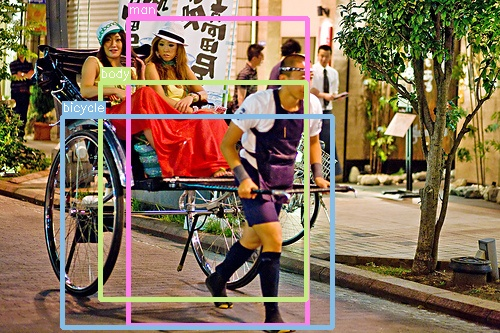
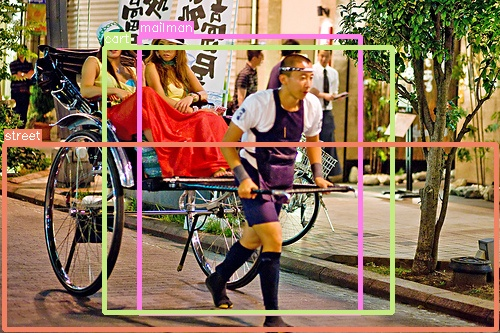
missing combined encoding added to transformer

Changed region(s): [[0.0, 0.0, 1.0, 1.0]]

diff --git a/inference.py b/inference.py
@@ -20,6 +20,7 @@ import skimage
 import skimage.transform
 import nltk
 import re
+from enum import Enum
 from util import box_ops
 from PIL import Image
 from torch.utils.data import DataLoader
@@ -31,6 +32,10 @@ from nltk.corpus import wordnet as wn
 class Namespace:
     def __init__(self, **kwargs):
         self.__dict__.update(kwargs)
+
+class ModelType(Enum):
+    MGSRTR:str = 'mgsrtr'
+    DuelEncGSR:str = 'duel_enc_gsr'
 
 def noun2synset(noun):
     return wn.synset_from_pos_and_offset(noun[0], int(noun[1:])).name() if re.match(r'n[0-9]*',
@@ -238,6 +243,11 @@ def main(args):
 
 
 if __name__ == '__main__':
+
+    dataset = 'flicker30k'
+    flicker_path = './flicker30k'
+    swig_path = './SWiG'
+
     args = Namespace(
         lr=0.0001,
         lr_backbone=1e-5,
@@ -247,7 +257,7 @@ if __name__ == '__main__':
         batch_size=16,
         backbone='resnet50',
         position_embedding='learned',
-        max_sentence_len=30,
+        max_sentence_len=100,
         enc_layers=6,
         dec_layers=6,
         dim_feedforward=2048,
@@ -259,8 +269,10 @@ if __name__ == '__main__':
         bbox_loss_coef=5,
         bbox_conf_loss_coef=5,
         giou_loss_coef=5,
-        dataset_file='swig',
-        swig_path='SWiG',
+        # dataset_file='swig',
+        dataset_file=dataset,
+        swig_path=swig_path,
+        flicker_path=flicker_path,
         dev=False,
         test=True,
         inference=True,
@@ -270,11 +282,12 @@ if __name__ == '__main__':
         epochs=40,
         start_epoch=0,  # epochs should start from 0 and continue until less then epochs
         num_workers=4,
-        saved_model='pretrained/checkpoint.pth',
+        saved_model='flicker30k/pretrained/v2/checkpoint.pth',
         world_size=1,
         dist_url='env://',
-        image_path='./inference/standing.jpg',
-        caption='Two young guys are standing on a yard.'
+        model_type=ModelType.MGSRTR,
+        image_path='./inference/talking-skating.jpg',
+        caption='A girl is skating on the street while talking with a mobile on her ear.'
     )
 
     nltk.download('wordnet')

diff --git a/models/dual_encoder_gsr/transformer.py b/models/dual_encoder_gsr/transformer.py
@@ -71,9 +71,9 @@ class Transformer(nn.Module):
         mem_mask = torch.cat([zero_mask, mask], dim=1)
 
         text_memory = self.text_encoder(input_ids=text_src, attention_mask=text_mask)
-        # text_memory = self.text_input_proj(text_memory)
-        # text_memory = torch.transpose(text_memory, 0, 1)
-        # text_mask = text_mask.bool()
+        text_memory = self.text_input_proj(text_memory)
+        text_memory = torch.transpose(text_memory, 0, 1)
+        text_mask = text_mask.bool()
 
         combined_mask = torch.cat((text_mask, mask), dim=1)
 
@@ -83,7 +83,7 @@ class Transformer(nn.Module):
         vhs = vhs.view(bs, -1)
         verb_pred = self.verb_classifier(vhs).view(bs, self.num_verb_classes)
 
-        # memory_combined = torch.cat((text_memory, memory), dim=0)
+        memory_combined = torch.cat((text_memory, memory), dim=0)
 
         # Transformer Decoder
         ## At training time, we assume that the ground-truth verb is given.
@@ -110,8 +110,8 @@ class Transformer(nn.Module):
                                    axis=-1)
         vr_query_embed = vr_query_embed.unsqueeze(1).repeat(1, bs, 1)
         role_tgt = torch.zeros_like(vr_query_embed)
-        rhs = self.decoder(role_tgt, memory, memory_key_padding_mask=mask,
-                           pos=pos_embed, query_pos=vr_query_embed)
+        rhs = self.decoder(role_tgt, memory_combined, memory_key_padding_mask=combined_mask,
+                           pos=combined_pos_embed, query_pos=vr_query_embed)
         rhs = rhs.transpose(1, 2)
 
         return verb_pred, rhs, num_roles
